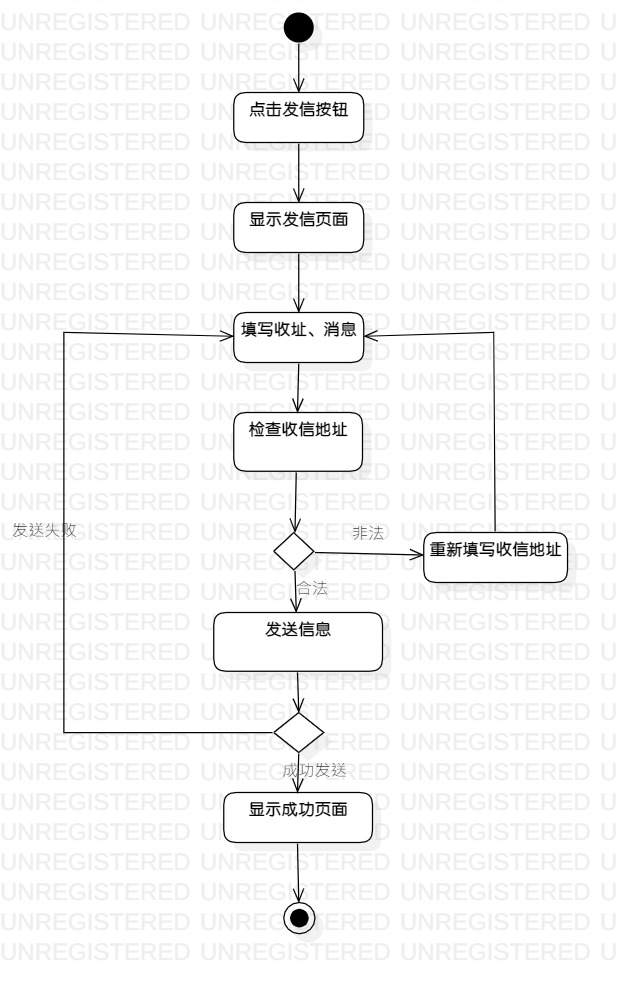
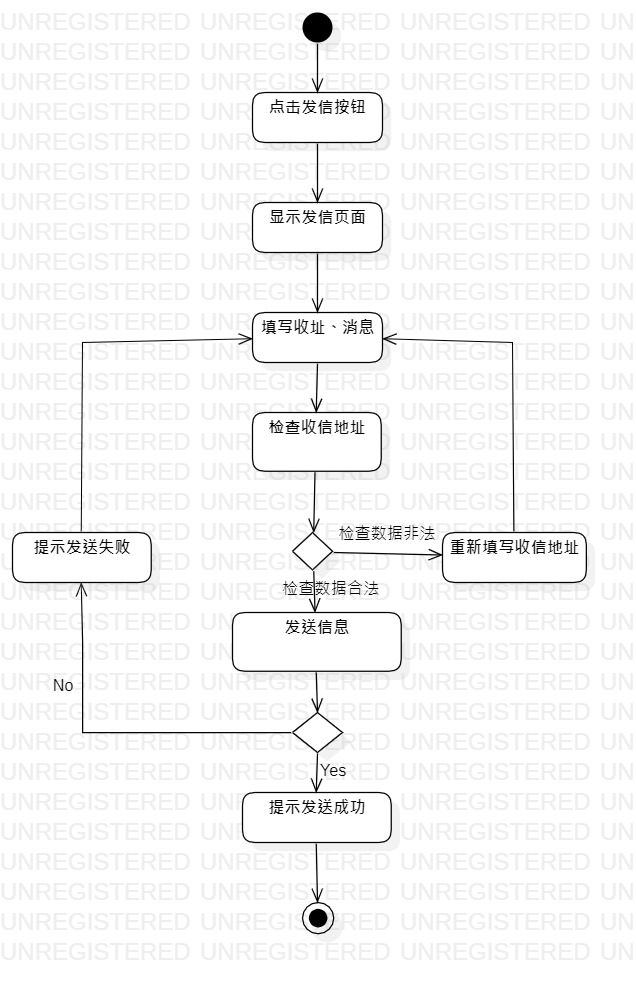
实验三 过程建模的修正 和 实验二 用例建模的修正

diff --git a/students/1714080902512/lab2.md b/students/1714080902512/lab2.md
@@ -44,18 +44,21 @@
 | 基本流程 | 1.用户点击发信按钮                                           | 成功执行 |
 |          | 2.系统显示发信页面                                           |          |
 |          | 3.用户填入收信人、待发消息，点击发信按钮                     |          |
-|          | 4.系统检测收信地址合理，保存收信人、待发消息、发送时间于本地操作数据库，然后发送讯息 |          |
-|          | 5.系统显示成功发送页面                                       |          |
+|          | 4.系统检测收信地址合理，将收信人、待发消息、发送时间，保存记录后发送 |          |
+|          | 5.发送成功后，系统显示成功页面                               |          |
 | 扩展流程 | 4.1 系统发现收信地址非法，提示用户重新输入                   | 执行错误 |
+|          | 5.1 系统无法发送时，提示用户发送失败，并请其重新输入         | 执行错误 |
 
 表2 接收信息之用例规约
 
-| 用例编号 | UC02                                           | 备注     |
-| -------- | ---------------------------------------------- | -------- |
-| 用例名   | 接收信息                                       |          |
-| 前置条件 | 用户登入局域网通讯系统                         | *可选    |
-| 后置条件 | 用户进入收信界面                               | *可选    |
-| 基本流程 | 1.用户点击收信按钮                             | 成功执行 |
-|          | 2.系统显示收信界面                             |          |
-| 扩展流程 | 2.1 系统若无收到讯息，则提示用户“未接收到讯息” | 执行错误 |
+| 用例编号 | UC02                                             | 备注     |
+| -------- | ------------------------------------------------ | -------- |
+| 用例名   | 接收信息                                         |          |
+| 前置条件 | 用户登入局域网通讯系统                           | *可选    |
+| 后置条件 | 用户进入收信界面                                 | *可选    |
+| 基本流程 | 1.用户点击收信按钮                               | 成功执行 |
+|          | 2.系统显示收信页面                               |          |
+|          | 3.系统联机检查是否有信息发送至本机               |          |
+|          | 4.系统显示收到的信息                             |          |
+| 扩展流程 | 3.1 系统检查无收到讯息，则提示用户“未接收到讯息” |          |
 

diff --git a/students/1714080902512/lab3.md b/students/1714080902512/lab3.md
@@ -14,9 +14,12 @@
 
 画图,如图所示。
 
-01发送讯息的活动图![ActivityDiagram1](E:\STU\大三下\UML\uml-modeling-2020\students\1714080902512\ActivityDiagram1.jpg)
+01发送讯息的活动图![ActivityDiagram1](.\ActivityDiagram1.jpg)
 
 02接收信息的活动图
 
-![ActivityDiagram2](E:\STU\大三下\UML\uml-modeling-2020\students\1714080902512\ActivityDiagram2.jpg)
+![ActivityDiagram2](.\ActivityDiagram2.jpg)
 
+## 实验心得
+
+这次实验发掘出了实验二中用例的一些遗漏、错误，在看了老师视频后恍然大悟。
